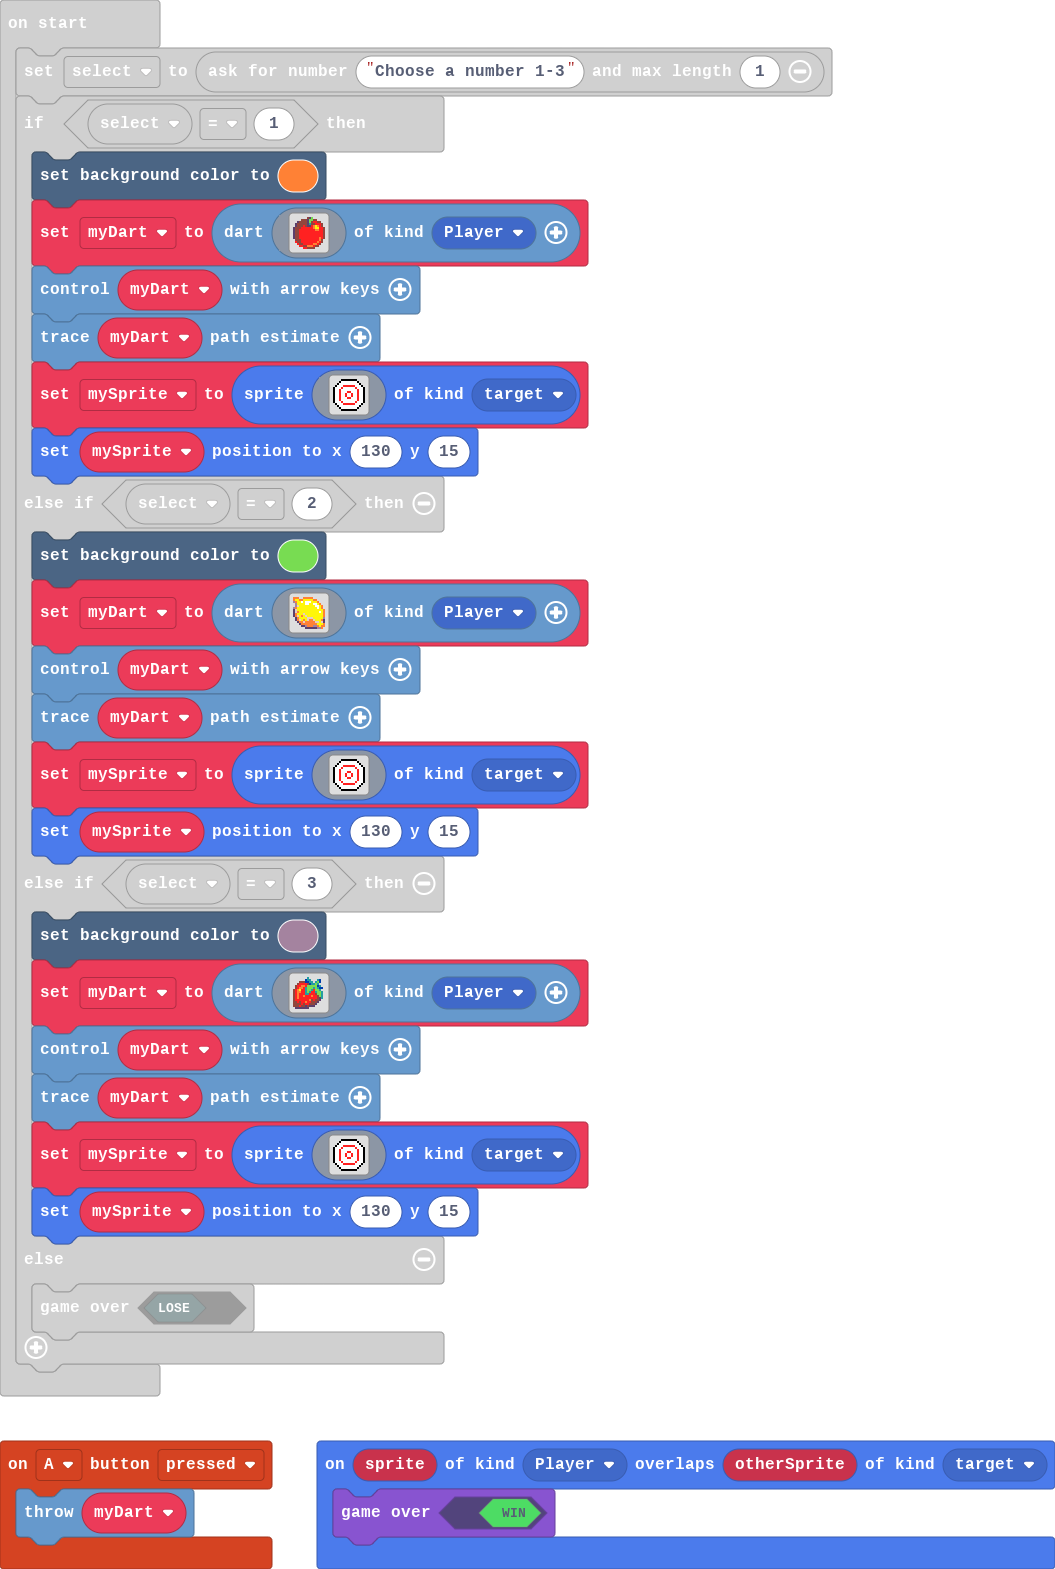
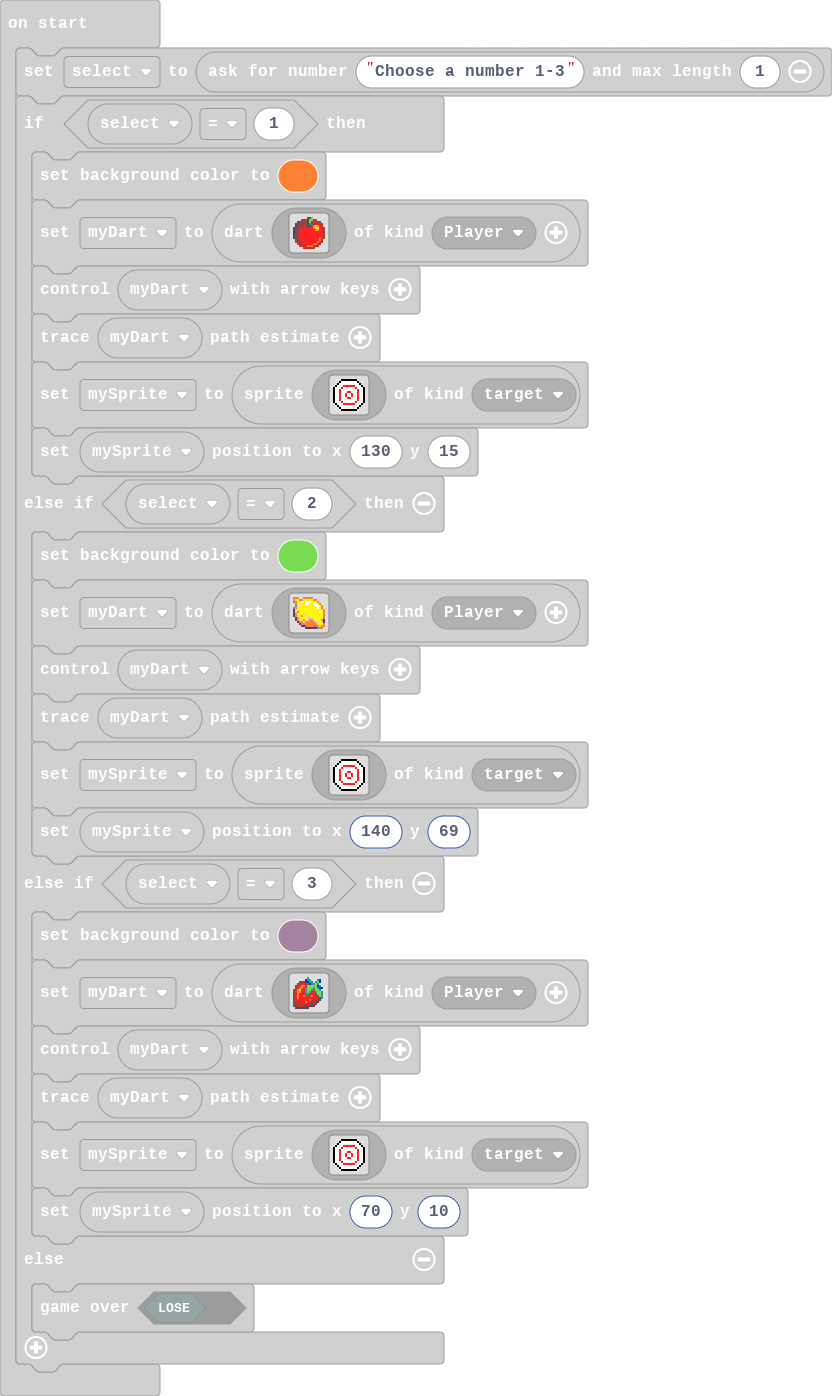
Update main.blocks, main.ts

diff --git a/main.ts b/main.ts
@@ -91,7 +91,7 @@ if (select == 1) {
         . . . f 1 1 1 1 1 1 1 1 f . . . 
         . . . . f f f f f f f f . . . . 
         `, SpriteKind.target)
-    mySprite.setPosition(130, 15)
+    mySprite.setPosition(140, 69)
 } else if (select == 3) {
     scene.setBackgroundColor(11)
     myDart = darts.create(img`
@@ -132,7 +132,7 @@ if (select == 1) {
         . . . f 1 1 1 1 1 1 1 1 f . . . 
         . . . . f f f f f f f f . . . . 
         `, SpriteKind.target)
-    mySprite.setPosition(130, 15)
+    mySprite.setPosition(70, 10)
 } else {
     game.gameOver(false)
 }
